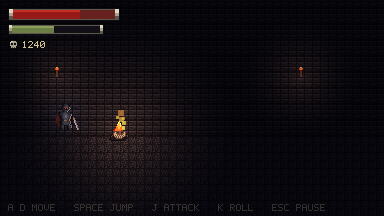
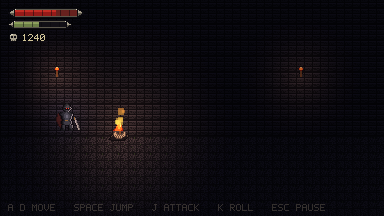
Kleinere, spitze Leisten fürs HUD
Leben und Ausdauer waren generische, grosse Balken. Neu: ein schmales Eisen-
und-Knochen-Messgerät statt eines Ladebalkens -- zwei spitze Fänge flankieren
eine kleine vertiefte Platte, dazu geritzte Segment-Striche über der Füllung.

- HP-Leiste 112x13 -> 76x10, Ausdauer 96x11 -> 64x9.
- spiked_bar_frame() in gen_art.py ersetzt bone_bar_frame() und liefert
  (frame, overlay): der Rahmen (Fänge + Platte + leerer Kanal) ist deckend und
  wird zuerst gezeichnet; das Overlay traegt nur duenne, halbtransparente
  Trennstriche und wird NACH der Fuellung gezeichnet, damit die Leiste
  segmentiert wirkt statt als ein Farbklecks.
- Der Mockup-Code (build_ui_preview) zeichnet jetzt in derselben Reihenfolge
  wie HUD.gd (_composite_bar) -- das war genau die Stelle, an der Mockup und
  Engine beim letzten Mal auseinanderliefen und die leeren Leisten im
  Mockup verdeckt blieben.

Mit echten In-Engine-Screenshots unter Xvfb geprueft (tools/shots/), nicht nur
mit dem Python-Mockup. Alle 74 Checks weiterhin gruen; der Mutationstest fuer
die Zeichenreihenfolge (Rahmen muss vor der Fuellung stehen) faengt den alten
Leere-Leisten-Fehler weiterhin ab.

Claude-Session: https://claude.ai/code/session_01C7tYBAusFodK8K32XDSRGk

diff --git a/tools/gen_art.py b/tools/gen_art.py
@@ -726,33 +726,66 @@ def skull_frames():
             grid_to_img(_swap(SKULL, 'e', 'Z'), UIPAL)]
 
 
-def bone_bar_frame(w, h, cap=5):
-    """A bone trough: knobbed caps at both ends, dark channel for the fill.
+def spiked_bar_frame(w, h, spike=6, tick_gap=9):
+    """A slender iron-and-bone gauge, not a loading bar: twin fangs flank a
+    small recessed plate. Returns (frame, overlay).
 
-    The channel is inset by `cap` horizontally and 2px vertically; the engine
-    draws the fill there (see HUD.channel_rect)."""
-    img = Image.new("RGBA", (w, h), T)
-    px = img.load()
+    The frame is OPAQUE and drawn first (fangs + plate + empty channel) — this
+    is what made the old rounded-knob bar read as generic; a pointed silhouette
+    reads as a weapon instead. The overlay is TRANSPARENT scoring drawn AFTER
+    the fill (thin ticks only, so it never needs to mask a rectangular
+    overflow the way an opaque piece would) — it breaks the fill into scored
+    segments instead of one solid smear.
+
+    cap = spike + 1 is the horizontal inset the engine draws the fill at (the
+    +1 is the plate's own rim); see UiTheme.HP_CAP / channel_size()."""
+    frame = Image.new("RGBA", (w, h), T)
+    px = frame.load()
     OUTL = UIPAL['o']
+    cy = (h - 1) / 2.0
+
     for y in range(h):
         for x in range(w):
-            in_cap = x < cap or x >= w - cap
-            if x == 0 or y == 0 or x == w - 1 or y == h - 1:
-                px[x, y] = OUTL
-            elif in_cap:
-                # rounded-off bone knob: shade top-lit, bottom-shadowed
-                px[x, y] = UIPAL['W'] if y <= h // 3 else (
-                    UIPAL['n'] if y >= h - 1 - h // 3 else UIPAL['I'])
-            elif y == 1:
-                px[x, y] = UIPAL['n']
-            elif y == h - 2:
-                px[x, y] = UIPAL['n']
+            if x < spike or x >= w - spike:
+                # --- fang: tapers from a single glinting point to the plate ---
+                lx = x if x < spike else (w - 1 - x)
+                half = (lx / float(spike)) * (h / 2.0)
+                d = abs(y - cy)
+                if d > half + 0.5:
+                    continue
+                if d > half - 0.9:
+                    px[x, y] = OUTL
+                elif lx == 0:
+                    px[x, y] = UIPAL['W']            # the tip glints
+                else:
+                    px[x, y] = UIPAL['I'] if y <= cy else UIPAL['n']
             else:
-                px[x, y] = (18, 16, 22, 255)      # empty channel
-    # nick the very corners so the caps read as rounded, not as bricks
-    for (cx, cy) in ((0, 0), (w - 1, 0), (0, h - 1), (w - 1, h - 1)):
-        px[cx, cy] = T
-    return img
+                # --- plate: recessed channel, corners chamfered ---
+                is_edge = (x == spike or x == w - spike - 1 or y == 0 or y == h - 1)
+                cut_corner = ((x == spike or x == w - spike - 1)
+                              and (y == 0 or y == h - 1))
+                if cut_corner:
+                    continue
+                if is_edge:
+                    px[x, y] = OUTL
+                elif y == 1 or y == h - 2:
+                    px[x, y] = UIPAL['n']
+                else:
+                    px[x, y] = (18, 16, 22, 255)      # empty channel
+    # rivets, just inside the plate's top rim where the fangs meet it
+    _put(frame, spike + 1, 1, UIPAL['W'])
+    _put(frame, w - spike - 2, 1, UIPAL['W'])
+
+    # --- overlay: scoring ticks over the channel, drawn AFTER the fill ---
+    overlay = Image.new("RGBA", (w, h), T)
+    opx = overlay.load()
+    inner_x0, inner_x1 = spike + 1, w - spike - 1
+    x = inner_x0 + tick_gap
+    while x < inner_x1 - 1:
+        for y in range(2, h - 2):
+            opx[x, y] = (9, 8, 12, 130)
+        x += tick_gap
+    return frame, overlay
 
 
 def _put(img, x, y, col):
@@ -895,10 +928,30 @@ def save_ui(img, name):
     print("  wrote ui/%s" % name, img.size)
 
 
-def build_ui_preview(backdrop, hp_frame, sp_frame, skulls, game_tile):
+def _composite_bar(img, pos, frame, overlay, cap, frac, fill_col, edge_col):
+    """Mirrors HUD.gd's draw order exactly: frame, then fill, then a lit top
+    edge, then the scoring overlay on top of everything. Drifting from this
+    order is how the fill ended up invisible once already (the frame is
+    opaque and was covering it) -- keeping mock-up and engine on one code
+    path is cheaper than re-discovering that."""
+    ox, oy = pos
+    img.alpha_composite(frame, (ox, oy))
+    inner_w = frame.width - cap * 2
+    inner_h = frame.height - 4
+    fw = max(0, int(round(inner_w * frac)))
+    px = img.load()
+    for y in range(inner_h):
+        for x in range(fw):
+            px[ox + cap + x, oy + 2 + y] = edge_col if y < 2 else fill_col
+    img.alpha_composite(overlay, (ox, oy))
+
+
+def build_ui_preview(backdrop, hp_bar, sp_bar, skulls, game_tile):
     """A mock-up of the menu and the in-game HUD so the look can be judged
-    without opening the engine."""
+    without opening the engine. hp_bar / sp_bar are (frame, overlay, cap)."""
     w, h = 384, 216
+    hp_frame, hp_overlay, hp_cap = hp_bar
+    sp_frame, sp_overlay, sp_cap = sp_bar
     shot = backdrop.copy()
 
     # --- title, with an ember-red drop shadow ---
@@ -933,18 +986,11 @@ def build_ui_preview(backdrop, hp_frame, sp_frame, skulls, game_tile):
     out.alpha_composite(panel, (0, h))
 
     ox, oy = 8, h + 8
-    out.alpha_composite(hp_frame, (ox, oy))
-    out.alpha_composite(sp_frame, (ox, oy + hp_frame.height + 3))
-    px = out.load()
-    for y in range(2, hp_frame.height - 2):
-        for x in range(5, hp_frame.width - 5):
-            if x < 5 + int((hp_frame.width - 10) * 0.72):
-                px[ox + x, oy + y] = (150, 26, 24, 255) if y > 3 else (196, 44, 36, 255)
-    sy = oy + hp_frame.height + 3
-    for y in range(2, sp_frame.height - 2):
-        for x in range(4, sp_frame.width - 4):
-            if x < 4 + int((sp_frame.width - 8) * 0.55):
-                px[ox + x, sy + y] = (108, 126, 70, 255) if y > 3 else (140, 158, 92, 255)
+    _composite_bar(out, (ox, oy), hp_frame, hp_overlay, hp_cap, 0.72,
+                    (150, 26, 24, 255), (196, 44, 36, 255))
+    sy = oy + hp_frame.height + 2
+    _composite_bar(out, (ox, sy), sp_frame, sp_overlay, sp_cap, 0.55,
+                    (108, 126, 70, 255), (140, 158, 92, 255))
     out.alpha_composite(skulls[0], (ox, sy + sp_frame.height + 4))
     draw_text(out, "1240", ox + 14, sy + sp_frame.height + 7, 1, (208, 196, 150, 255))
     draw_text(out, "IN-GAME HUD", w - text_width("IN-GAME HUD", 1) - 8,
@@ -1195,14 +1241,19 @@ def main():
     save_ui(font_sheet(), "font_5x7.png")
     skulls = skull_frames()
     save_ui(hsheet(skulls), "skull.png")
-    hp_frame = bone_bar_frame(112, 13, cap=5)
-    sp_frame = bone_bar_frame(96, 11, cap=4)
+    HP_SPIKE, HP_CAP = 6, 7        # cap = spike + 1 (the plate's own rim)
+    SP_SPIKE, SP_CAP = 5, 6
+    hp_frame, hp_overlay = spiked_bar_frame(76, 10, spike=HP_SPIKE, tick_gap=9)
+    sp_frame, sp_overlay = spiked_bar_frame(64, 9, spike=SP_SPIKE, tick_gap=9)
     save_ui(hp_frame, "bar_frame_hp.png")
+    save_ui(hp_overlay, "bar_overlay_hp.png")
     save_ui(sp_frame, "bar_frame_sp.png")
+    save_ui(sp_overlay, "bar_overlay_sp.png")
     backdrop = menu_backdrop(wall, floor)
     save_ui(backdrop, "menu_bg.png")
 
-    ui_shot = build_ui_preview(backdrop, hp_frame, sp_frame, skulls, floor)
+    ui_shot = build_ui_preview(backdrop, (hp_frame, hp_overlay, HP_CAP),
+                                (sp_frame, sp_overlay, SP_CAP), skulls, floor)
     ui_shot.resize((ui_shot.width * 3, ui_shot.height * 3), Image.NEAREST).save(
         os.path.join(tools_dir, "ui_preview.png"))
     print("  wrote tools/ui_preview.png", ui_shot.size, "(x3)")
